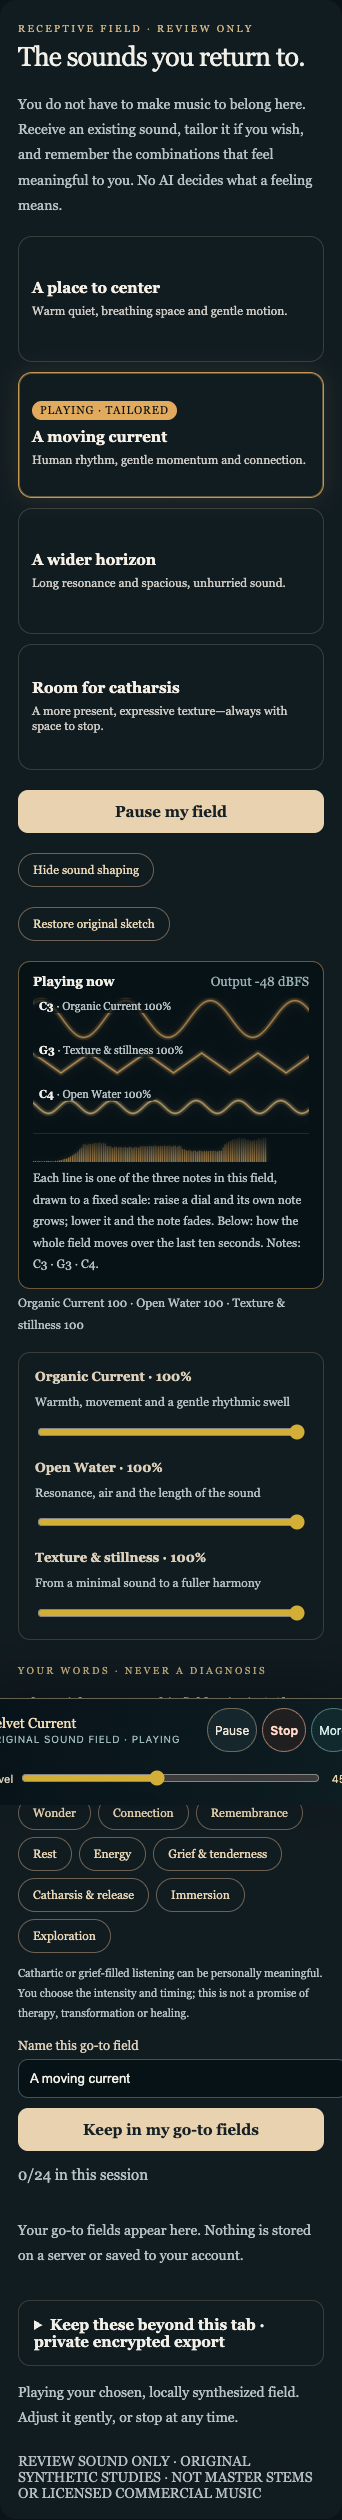
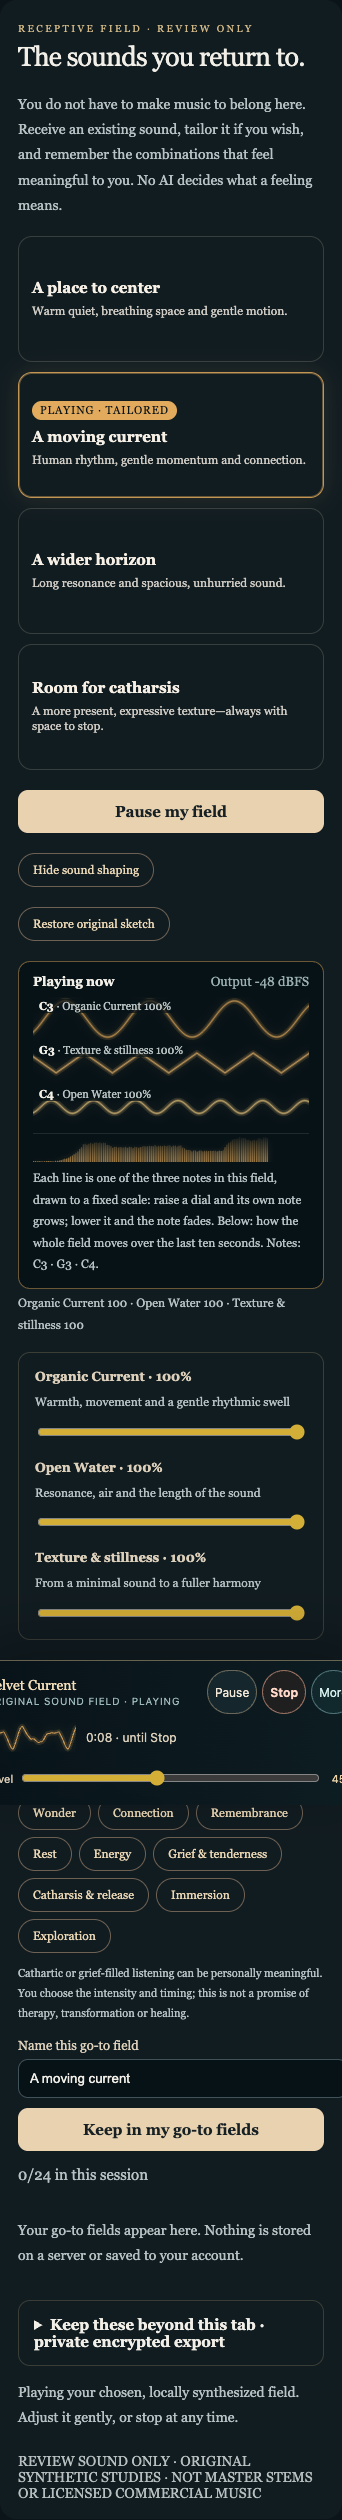
feat(listen): Level, play length and a live waveform in the player bar
Founder ruling 2026-11-19 on #1979 ("Yes, in the bar", "at least have
volume", "and play lengtht"):
- Level is in the bar whenever it shows, including with only a silent focus
  timer, where it sets the level the next sound starts at.
- Play length: elapsed / total for a member's own recording; for generated
  sound, how long it has played, until Stop.
- A small soft waveform in the source's colour, 25 ms at the device's rate.
  Generated sound is read through the existing read-only tap. A recording is
  read through a captureStream copy analysed in a context connected to
  nothing, so playback is never rerouted. Where there is no captureStream
  (Safari), the bar says so.
- A silent focus session offers Choose a sound.

listen79's source-shape assertion is updated to the ruled condition.

diff --git a/components/listening/PersistentListeningDock.tsx b/components/listening/PersistentListeningDock.tsx
@@ -25,6 +25,10 @@ type Props = {
   volumeAdjustable?: boolean;
   focusSoundLabel?: string | null;
   onPlayFocusSound?: () => void;
+  /** Read-only: an analyser on what is sounding, for the bar's live waveform; null when none is available. */
+  outputAnalyser?: () => AnalyserNode | null;
+  /** Read-only: where the member's own file is, for its play length. */
+  localFilePosition?: () => { title: string; seconds: number; duration: number | null; playing: boolean } | null;
   onPauseFocus: () => void;
   onResumeFocus: () => void;
   onStopFocus: () => void;
@@ -37,12 +41,84 @@ const COMPANION_LEVELS = [
   { id: 'soft', label: 'Soft', value: 22, description: 'A gentle companion level' },
   { id: 'present', label: 'Present', value: 35, description: 'Clearly audible without becoming the foreground' },
 ] as const;
+/** Each source's colour in the bar, beside the house gold (founder ruling 2026-11-19, #1979). */
+const MOOD_TINTS: Record<string, readonly [number, number, number]> = {
+  focus: [120, 160, 214], create: [226, 170, 92], drift: [110, 190, 200], rest: [167, 160, 214],
+};
+const BAR_GOLD = [212, 175, 55] as const;
+
+function clock(seconds: number): string {
+  const s = Math.max(0, Math.floor(seconds));
+  return `${Math.floor(s / 60)}:${String(s % 60).padStart(2, '0')}`;
+}
+
+/** The bar's live view: a small soft waveform of what is sounding, and how long it has played. */
+function BarLive({ snapshot, outputAnalyser, localFilePosition }: Pick<Props, 'snapshot' | 'outputAnalyser' | 'localFilePosition'>) {
+  const canvas = useRef<HTMLCanvasElement>(null);
+  const [time, setTime] = useState<string | null>(null);
+  const [viewable, setViewable] = useState(true);
+  const getAnalyser = useRef(outputAnalyser); getAnalyser.current = outputAnalyser;
+  const getLocal = useRef(localFilePosition); getLocal.current = localFilePosition;
+  const playing = snapshot.playback === 'playing';
+  const tint = (snapshot.kind === 'sketch' && snapshot.mood && MOOD_TINTS[snapshot.mood]) || BAR_GOLD;
+  const tintRef = useRef(tint); tintRef.current = tint;
+  const kindRef = useRef(snapshot.kind); kindRef.current = snapshot.kind;
+  useEffect(() => {
+    let raf = 0, last = 0, started: number | null = null, generatedPlayed = 0;
+    const draw = (now: number) => {
+      raf = requestAnimationFrame(draw);
+      const c = canvas.current; if (!c) return;
+      const dpr = window.devicePixelRatio || 1;
+      const cw = Math.round(c.clientWidth * dpr), ch = Math.round(c.clientHeight * dpr);
+      if (c.width !== cw || c.height !== ch) { c.width = cw; c.height = ch; }
+      const g = c.getContext('2d'); if (!g) return;
+      const analyser = playing ? getAnalyser.current?.() ?? null : null;
+      const t = tintRef.current, rgba = (a: number) => `rgba(${t[0]},${t[1]},${t[2]},${a})`;
+      g.clearRect(0, 0, c.width, c.height);
+      const line = new Path2D();
+      if (analyser) {
+        const d = new Float32Array(analyser.fftSize); analyser.getFloatTimeDomainData(d);
+        let peak = 0; for (const v of d) if (Math.abs(v) > peak) peak = Math.abs(v);
+        // A fixed 25 ms of time whatever the device's rate (a studio interface may run at 192 kHz).
+        const shown = Math.min(d.length, Math.round(analyser.context.sampleRate * 0.025)), n = Math.min(shown, 400), stride = shown / n;
+        const scale = (c.height * 0.4) / Math.max(peak, 1e-4);
+        for (let i = 0; i < n; i++) { const x = (i / (n - 1)) * c.width, y = c.height / 2 - d[Math.floor(i * stride)] * scale; i ? line.lineTo(x, y) : line.moveTo(x, y); }
+      } else { line.moveTo(0, c.height / 2); line.lineTo(c.width, c.height / 2); }
+      g.lineJoin = 'round'; g.lineCap = 'round';
+      g.save(); g.shadowColor = rgba(.5); g.shadowBlur = 8 * dpr; g.strokeStyle = rgba(.16); g.lineWidth = 5 * dpr; g.stroke(line); g.restore();
+      g.strokeStyle = rgba(.85); g.lineWidth = 1.1 * dpr; g.stroke(line);
+      if (now - last > 250) {
+        last = now;
+        setViewable(!playing || !!analyser);
+        if (kindRef.current === 'local-file') {
+          const p = getLocal.current?.();
+          setTime(p ? (p.duration ? `${clock(p.seconds)} / ${clock(p.duration)}` : clock(p.seconds)) : null);
+        } else if (kindRef.current === 'sketch') {
+          // Generated sound has no fixed length: show how long it has played, until Stop.
+          if (playing) { if (started === null) started = now; } else if (started !== null) { generatedPlayed += now - started; started = null; }
+          const played = generatedPlayed + (started === null ? 0 : now - started);
+          setTime(`${clock(played / 1000)} · until Stop`);
+        } else setTime(null); // review media already shows its passage and length in the bar
+      }
+    };
+    raf = requestAnimationFrame(draw);
+    return () => cancelAnimationFrame(raf);
+  }, [playing, snapshot.title]);
+  return <div className={styles.barLive} data-listen-bar-live={playing ? (viewable ? 'playing' : 'not-viewable') : 'still'}
+    data-listen-bar-tint={tint.join(',')}>
+    <canvas ref={canvas} aria-hidden="true" data-listen-bar-wave="true" />
+    {time && <span data-listen-bar-time="true">{time}</span>}
+    {playing && !viewable && <span className={styles.barLiveNote} data-listen-bar-live-note="true">No live view for recordings in this browser</span>}
+  </div>;
+}
+
 const FADE_DURATION_MS = 12_000;
 const FADE_STEPS = 24;
 
 export default function PersistentListeningDock({
   snapshot, volume, looping, loopAvailable, displayed, focusSession, focusRemainingLabel,
   onPauseMusic, onResumeMusic, onStopMusic, onVolume, onLooping, onCompanionMode, volumeAdjustable = true, focusSoundLabel = null, onPlayFocusSound,
+  outputAnalyser, localFilePosition,
   onPauseFocus, onResumeFocus, onStopFocus,
 }: Props) {
   const [mixOpen, setMixOpen] = useState(false);
@@ -203,6 +279,10 @@ export default function PersistentListeningDock({
         </div>
       )}
 
+      {audioDisplayed && snapshot.kind !== 'none' && (
+        <BarLive snapshot={snapshot} outputAnalyser={outputAnalyser} localFilePosition={localFilePosition} />
+      )}
+
       {focusDisplayed && focusSession && (
         <div className={styles.focus} data-focus-field-dock="true">
           <strong>Focus Field · {focusSession.plan.taskLabel || focusSession.plan.task}</strong>
@@ -212,6 +292,9 @@ export default function PersistentListeningDock({
       )}
 
       <div className={styles.controls}>
+        {focusDisplayed && !focusSoundLabel && snapshot.kind === 'none' && (
+          <Link className={styles.control} href="/listen#focus-sound" data-focus-dock-choose-sound="true">Choose a sound</Link>
+        )}
         {focusDisplayed && focusSoundLabel && snapshot.kind === 'none' && onPlayFocusSound && (
           <button type="button" className={styles.control} data-focus-dock-play-sound="true"
             onClick={onPlayFocusSound} aria-label={`Play ${focusSoundLabel}`}>▶ {focusSoundLabel}</button>
@@ -253,7 +336,9 @@ export default function PersistentListeningDock({
 
       {/* The level sits in the bar itself for every source. Where the device fixes a media file's level (iOS),
           the bar says so instead of showing a slider that would change nothing. */}
-      {audioDisplayed && !mixOpen && (volumeAdjustable ? (
+      {/* Level is always in the bar while it shows (founder ruling 2026-11-19, #1979): with only a silent focus
+          timer it sets the level the next sound starts at. */}
+      {(audioDisplayed || focusDisplayed) && !mixOpen && (volumeAdjustable || !audioDisplayed || snapshot.kind === 'sketch' ? (
         <label className={styles.volume} data-listen-bar-level="adjustable">
           <span aria-hidden="true">Level</span>
           <input aria-label="Persistent music volume" type="range" min="0" max="100" step="1"

diff --git a/components/listening/PersistentListeningProvider.tsx b/components/listening/PersistentListeningProvider.tsx
@@ -1084,6 +1084,35 @@ export function PersistentListeningProvider({
     return { analyser: taps.analyser, voices: taps.voices, frequencies: [...current.frequencies], mood: current.mood };
   }, []);
 
+  // Read-only view of a RECORDING's output for the player bar (founder ruling 2026-11-19, #1979): a copy of
+  // the element's stream via captureStream, analysed in a context connected to nothing. Playback keeps its own
+  // path; nothing is rerouted. Browsers without captureStream (Safari) get null, and the bar says so.
+  const mediaTap = useRef<{ url: string; context: AudioContext; analyser: AnalyserNode } | null>(null);
+  const outputAnalyser = useCallback((): AnalyserNode | null => {
+    if (kind.current === 'sketch' || (sketch.current && kind.current !== 'local-file' && kind.current !== 'review-media'))
+      return generatedOutput()?.analyser ?? null;
+    const element = media.current as (HTMLAudioElement & { captureStream?: () => MediaStream; mozCaptureStream?: () => MediaStream }) | null;
+    if (!element || element.paused) return null;
+    const capture = element.captureStream ?? element.mozCaptureStream;
+    if (typeof capture !== 'function') return null;
+    const url = element.currentSrc;
+    if (mediaTap.current?.url === url && mediaTap.current.context.state !== 'closed') return mediaTap.current.analyser;
+    try {
+      const stream = capture.call(element);
+      if (!stream.getAudioTracks().length) return null;
+      void mediaTap.current?.context.close().catch(() => undefined);
+      const Ctor = window.AudioContext || (window as Window & { webkitAudioContext?: typeof AudioContext }).webkitAudioContext;
+      const context = new Ctor();
+      const analyser = context.createAnalyser();
+      analyser.fftSize = 8192; analyser.smoothingTimeConstant = 0.5;
+      context.createMediaStreamSource(stream).connect(analyser); // to nothing: the copy is never heard
+      void context.resume().catch(() => undefined);
+      mediaTap.current = { url, context, analyser };
+      return analyser;
+    } catch { return null; }
+  }, [generatedOutput]);
+  useEffect(() => () => { void mediaTap.current?.context.close().catch(() => undefined); }, []);
+
   const localFilePosition = useCallback(() => {
     const el = media.current;
     if (kind.current !== 'local-file' || !el || !selected.current) return null;
@@ -1397,6 +1426,8 @@ export function PersistentListeningProvider({
       // generates itself (the soundscape's master gain), so that control is offered whenever such a sound is playing.
       volumeAdjustable={volumeAdjustable || snapshot.kind === 'sketch'}
       focusSoundLabel={focusSoundChoice === 'none' ? null : focusSoundLabel(focusSoundChoice)}
+      outputAnalyser={outputAnalyser}
+      localFilePosition={localFilePosition}
       onPlayFocusSound={() => { void playFocusSound(); }}
       onPauseFocus={() => { pauseFocusSession('member'); }}
       onResumeFocus={() => { resumeCurrentFocus(); }}

diff --git a/components/listening/persistentListeningDock.module.css b/components/listening/persistentListeningDock.module.css
@@ -28,3 +28,9 @@
 .volume input{width:120px;min-height:44px;margin:0}
 .volumeFixed{font-size:11px;color:#9fb7b7}
 @media(max-width:600px){.dock .volume,.dock .volumeFixed{grid-column:1/-1}.dock .volume input{flex:1;width:auto;min-height:36px}}
+
+.barLive{display:grid;grid-template-columns:120px auto;align-items:center;gap:10px;min-width:0;font-size:12px;color:#d8cdb8;font-variant-numeric:tabular-nums}
+.barLive canvas{width:120px;height:30px;display:block}
+.barLiveNote{grid-column:1/-1;font-size:11px;color:#9aafb0}
+.barLive span[data-listen-bar-time]{white-space:nowrap}
+@media(max-width:700px){.barLive{grid-template-columns:90px auto}.barLive canvas{width:90px}}

diff --git a/app/listen/FocusSoundPicker.tsx b/app/listen/FocusSoundPicker.tsx
@@ -27,7 +27,7 @@ export default function FocusSoundPicker() {
   };
 
   return (
-    <section className={styles.focusSound} aria-labelledby="focus-sound-title" data-focus-sound-picker="true">
+    <section id="focus-sound" className={styles.focusSound} aria-labelledby="focus-sound-title" data-focus-sound-picker="true">
       <h3 id="focus-sound-title">Sound for this session</h3>
       <div className={styles.focusInlineChoices} role="radiogroup" aria-label="Sound for this session">
         {FOCUS_SOUND_OPTIONS.map(item => (

diff --git a/docs/design/contracts/sound-studio-field.md b/docs/design/contracts/sound-studio-field.md
@@ -203,3 +203,21 @@ A long-form Dream Field may be represented by more than one exact media object w
 - Immediate Stop clears the sequence and any pending continuation.
 - A sequence does not imply looping. Night Ground Nicole First Night completes after 109 minutes unless a later, separately admitted extended-night edition explicitly grants core continuation.
 - Review delivery format is described truthfully. A 44.1 kHz private-review export is not relabeled as a 48 kHz serving master; the original Night Ground 48 kHz source remains separately preserved.
+
+## The player bar: Level, play length and a live waveform (founder ruling 2026-11-19, #1979)
+**Ruling:** "Yes, in the bar". Then: "at least have volume", "and play lengtht".
+
+- **Level is always in the bar while it shows,** in every room. With only a silent focus timer, it sets the level the next sound starts at. The desktop probe defect that hid it is fixed (see sound-field.md).
+- **Play length.** A member's own recording shows "elapsed / total". Review media keeps its passage and length. A generated sound has no fixed length, so it shows how long it has played, "· until Stop".
+- **A small live waveform** of what is sounding, soft, in the source's own colour (house gold for recordings), showing 25 ms at the device's rate.
+  - Generated sound is read through the existing read-only output tap.
+  - A recording is read through a copy of the element's stream (`captureStream`), analysed in a context connected to nothing. Playback keeps its own path, and nothing is rerouted or heard twice.
+  - Where a browser has no `captureStream` for audio (Safari), the bar says "No live view for recordings in this browser" rather than reroute playback.
+- **A silent focus session** shows "Choose a sound", linking to Sound for this session.
+- **Verification.** 2026-11-19, `tests/listening/player_bar_browser_witness.cjs`: the real player and dock with the real Focus page parts, in local Chrome at 1440 and 390 px.
+  - Level is present and sets the player's level with only a silent timer; Choose a sound is offered.
+  - A generated sound moves the waveform in its colour, with "0:03 · until Stop".
+  - A member's WAV moves the waveform, with "0:01 / 0:06".
+  - The edge log shows the stream copy feeds only an analyser, and no analyser feeds anything.
+  - Screenshots: `docs/design/contracts/screenshots/sound-studio-player-bar-generated-desktop.png`, `-recording-desktop.png`, `-mobile.png`.
+  - Not witnessed: Safari, a phone, review media, and an authenticated /listen walk.
